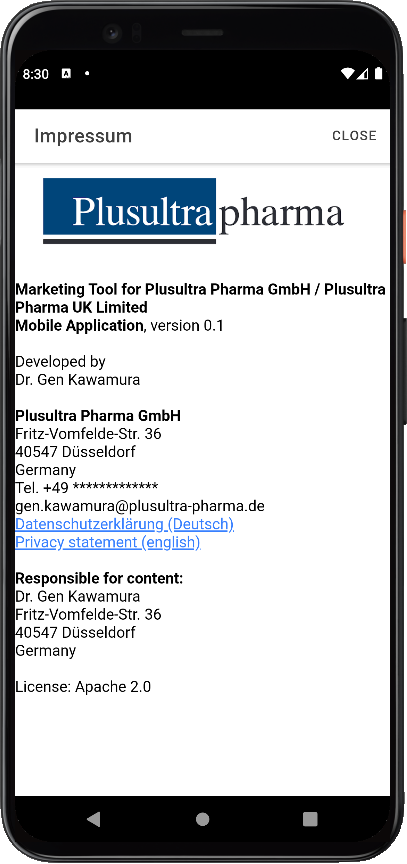
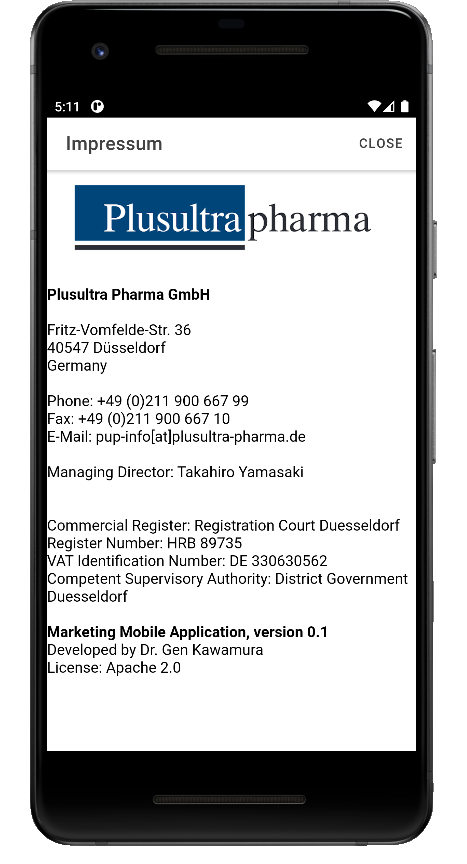
Updated Impressum

diff --git a/src/app/impressum/impressum.component.html b/src/app/impressum/impressum.component.html
@@ -15,42 +15,40 @@
 
     <br>
     <div class="settings-explanation credits">
-        <div>
-          <b>Marketing Tool for Plusultra Pharma GmbH / Plusultra Pharma UK Limited</b><br>
-            <b>Mobile Application</b>, version 0.1
-        </div>
-
-        <br>
-        <div class="row" style="text-align: left;">
-            <div class="col col-top">Developed by</div>
-            <div class="col col-67">
-                Dr. Gen Kawamura<br>
-            </div>
-        </div>
-    </div>
-
-    <br>
     <div class="settings-explanation">
-        <b>Plusultra Pharma GmbH</b><br>
+      <b>Plusultra Pharma GmbH</b><br>
+      <br>
         Fritz-Vomfelde-Str. 36<br>
         40547 Düsseldorf<br>
         Germany<br>
-        Tel. +49 ************* <br>
-        gen.kawamura@plusultra-pharma.de<br>
-        <a href="https://www.google.com">Datenschutzerklärung (Deutsch)</a><br>
-        <a href="https://www.google.com">Privacy statement (english)</a>
+	<br>
+	Phone: +49 (0)211 900 667 99  <br>
+	Fax: +49 (0)211 900 667 10 <br>
+	E-Mail: pup-info[at]plusultra-pharma.de
     </div>
     <br>
-    <div class="settings-explanation padding-top">
-        <b>Responsible for content:</b><br>
-        Dr. Gen Kawamura<br>
-        Fritz-Vomfelde-Str. 36<br>
-        40547 Düsseldorf<br>
-        Germany<br>
-	
+
+        <div class="row" style="text-align: left;">
+            <div class="col col-top">Managing Director: Takahiro Yamasaki</div>
+        </div>
+	<br>	
+	<br>
+	Commercial Register: Registration Court Duesseldorf<br>
+
+	Register Number: HRB 89735<br>
+
+	VAT Identification Number: DE 330630562<br>
+
+	Competent Supervisory Authority: District Government Duesseldorf<br>
     </div>
+
     <br>
     <div class="padding-top padding-bottom settings-explanation">
+        <b>Marketing Mobile Application, version 0.1</b>	
+        <div class="row" style="text-align: left;">
+            <div class="col col-top">Developed by Dr. Gen Kawamura<br>
+            </div>
+        </div>
         License: Apache 2.0
         <br>
 

diff --git a/README.md b/README.md
@@ -9,7 +9,7 @@ This Smartphone application is for marketing products in Plusultra Pharma in Ger
 ## Development/Build Environment
 
   * OS: Ubuntu 20.04
-  * Platform: Node.js v12.22.11, Ionic v5.4.16, Cordova v11.0.0
+  * Platform: Node.js v12.22.11, Ionic CLI v6.19.0, Cordova v11.0.0
   * Android: v6, v5, v.4
   * iOS: ?
 
